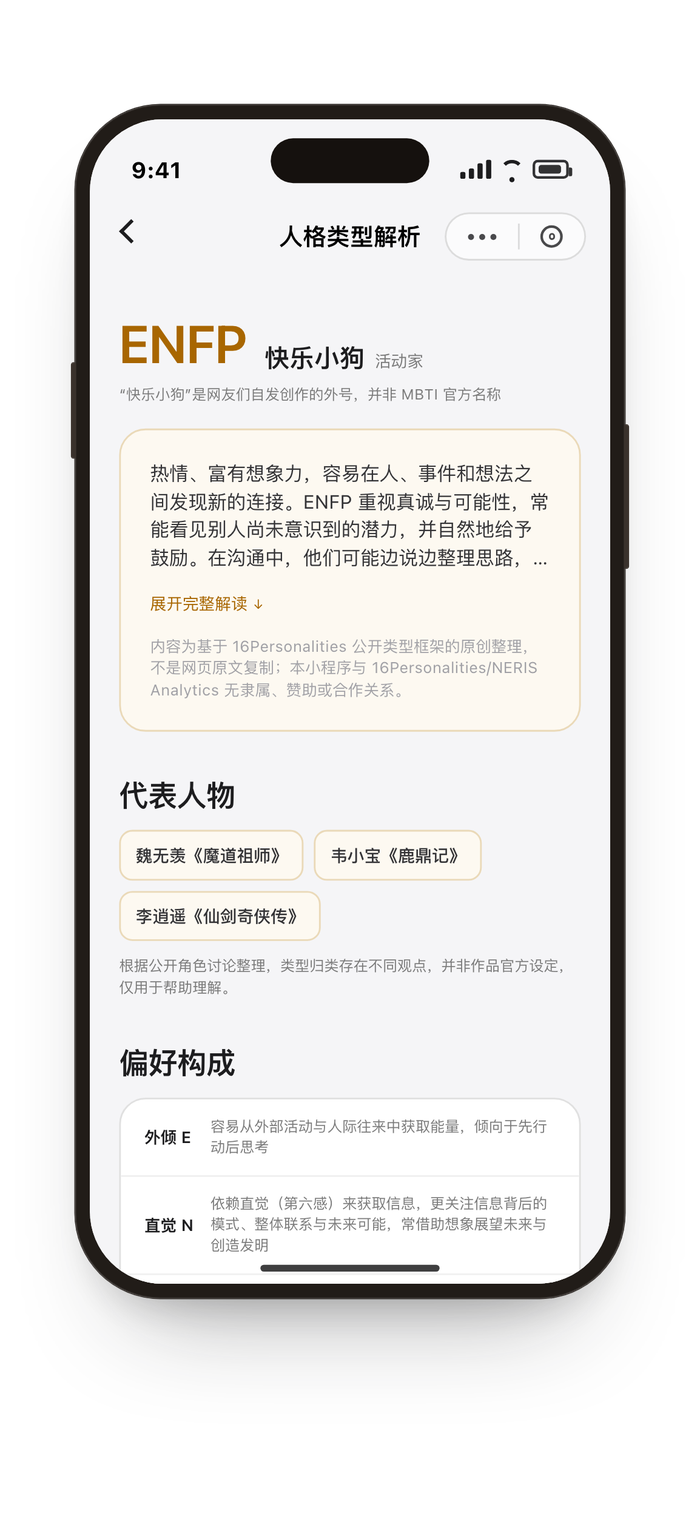
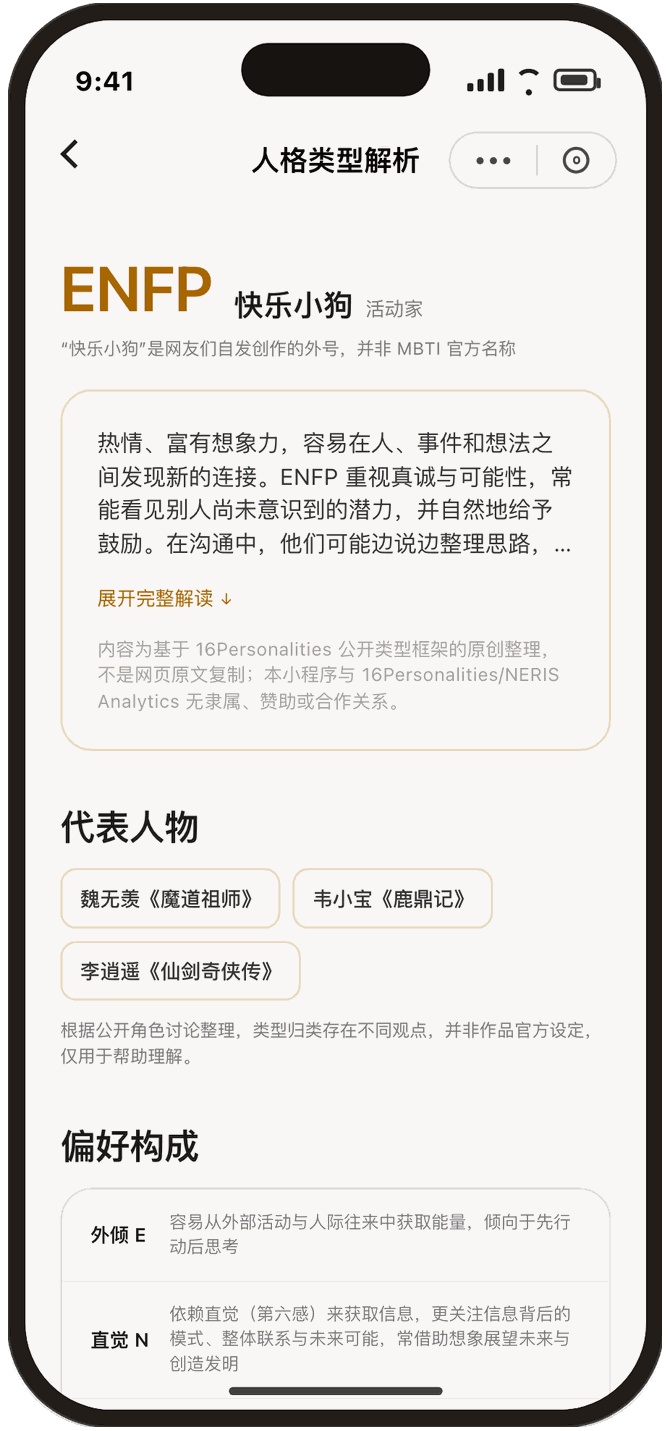
feat: 更新站点头像、成品图标注并清理截图投影
- 导航头像替换为照片，沿用 22px 圆角尺寸
- 两张小程序截图卡左上角增加「成品图」说明
- 四张手机截图去除烘焙投影并重新裁切压缩，同步更新展示比例
- 让我捋捋的两张截图位置对调

Changed region(s): [[0.0, 0.0, 1.0, 1.0], [0.1194, 0.9224, 0.209, 0.9532]]

diff --git a/index.html b/index.html
@@ -38,7 +38,7 @@ a{color:inherit;text-decoration:none;}
 .nav.scrolled{background:color-mix(in srgb,var(--bg) 80%,transparent);backdrop-filter:blur(14px);-webkit-backdrop-filter:blur(14px);border-bottom-color:var(--line);}
 .nav-inner{max-width:1080px;margin:0 auto;padding:16px 28px;display:flex;align-items:center;gap:20px;}
 .brand{font-weight:600;letter-spacing:.04em;display:flex;align-items:center;gap:9px;}
-.brand .dot{width:22px;height:22px;border-radius:7px;background:var(--grad);display:inline-block;}
+.brand .avatar{width:22px;height:22px;border-radius:7px;object-fit:cover;display:block;}
 .links{display:flex;gap:24px;margin-left:auto;align-items:center;}
 .links a{font-size:13.5px;color:var(--body);transition:color .2s;}
 .links a:hover{color:var(--ink);}
@@ -91,8 +91,9 @@ h1 .grad{background:var(--grad);-webkit-background-clip:text;background-clip:tex
 .mini{display:flex;flex-direction:column;gap:14px;}
 .mini .card{flex:1;}
 .phones-card{background:var(--surface);border:1px solid var(--line);border-radius:20px;box-shadow:var(--shadow);padding:16px;}
+.phones-cap{font-size:10.5px;letter-spacing:.16em;color:var(--muted);margin:0 0 10px;}
 .phones{display:grid;grid-template-columns:repeat(2,1fr);gap:10px;}
-.phone-btn{display:block;width:100%;aspect-ratio:700/1529;padding:0;border:0;background:none;font:inherit;line-height:0;cursor:zoom-in;transition:transform .3s cubic-bezier(.2,.7,.2,1);}
+.phone-btn{display:block;width:100%;aspect-ratio:670/1431;padding:0;border:0;background:none;font:inherit;line-height:0;cursor:zoom-in;transition:transform .3s cubic-bezier(.2,.7,.2,1);}
 .phone-btn img{display:block;width:100%;height:100%;object-fit:cover;}
 .phone-btn:hover{transform:translateY(-3px);}
 .phone-btn:focus-visible{outline:2px solid var(--accent);outline-offset:4px;}
@@ -176,7 +177,7 @@ html.js .rv.on{opacity:1;transform:none;}
 
 <nav class="nav" id="nav">
   <div class="nav-inner">
-    <a class="brand" href="#top"><span class="dot"></span>好开心</a>
+    <a class="brand" href="#top"><img class="avatar" src="assets/brand-avatar.jpg" alt="" width="128" height="128">好开心</a>
     <div class="links">
       <button class="theme-btn" id="themeToggle" aria-label="切换深浅色">◐</button>
       <a class="btn primary" href="#works">看作品</a>
@@ -221,12 +222,13 @@ html.js .rv.on{opacity:1;transform:none;}
         </div>
       </div>
       <div class="phones-card rv">
+        <div class="phones-cap">成品图</div>
         <div class="phones">
-          <button class="phone-btn" type="button" data-shot="assets/lvlv-phone-mbti.png" data-title="让我捋捋 · ENFP 人格详情" data-alt="让我捋捋 ENFP 人格类型详情页：快乐小狗、活动家、核心画像、代表人物与偏好构成" aria-haspopup="dialog" aria-controls="introDialog" aria-label="放大查看让我捋捋 ENFP 人格详情">
-            <img src="assets/lvlv-phone-mbti.png" alt="让我捋捋 ENFP 人格类型详情页：快乐小狗、活动家、核心画像、代表人物与偏好构成" loading="lazy" width="700" height="1529">
-          </button>
           <button class="phone-btn" type="button" data-shot="assets/lvlv-phone-result-upright.png" data-title="让我捋捋 · 结果页" data-alt="让我捋捋结果页：原话、第一反应、三种可能解释和一句可以这样问的求证" aria-haspopup="dialog" aria-controls="introDialog" aria-label="放大查看让我捋捋结果页">
-            <img src="assets/lvlv-phone-result-upright.png" alt="让我捋捋结果页：原话、第一反应、三种可能解释和一句可以这样问的求证" loading="lazy" width="700" height="1529">
+            <img src="assets/lvlv-phone-result-upright.png" alt="让我捋捋结果页：原话、第一反应、三种可能解释和一句可以这样问的求证" loading="lazy" width="670" height="1431">
+          </button>
+          <button class="phone-btn" type="button" data-shot="assets/lvlv-phone-mbti.png" data-title="让我捋捋 · ENFP 人格详情" data-alt="让我捋捋 ENFP 人格类型详情页：快乐小狗、活动家、核心画像、代表人物与偏好构成" aria-haspopup="dialog" aria-controls="introDialog" aria-label="放大查看让我捋捋 ENFP 人格详情">
+            <img src="assets/lvlv-phone-mbti.png" alt="让我捋捋 ENFP 人格类型详情页：快乐小狗、活动家、核心画像、代表人物与偏好构成" loading="lazy" width="670" height="1431">
           </button>
         </div>
       </div>
@@ -247,12 +249,13 @@ html.js .rv.on{opacity:1;transform:none;}
         </div>
       </div>
       <div class="phones-card rv">
+        <div class="phones-cap">成品图</div>
         <div class="phones">
           <button class="phone-btn" type="button" data-shot="assets/duidui-phone-train-upright.png" data-title="怼怼上线 · 训练页" data-alt="怼怼上线训练页：抽到职场场景，对方说“你这个事情怎么还没弄完？大家都在等你。”，用户正在写下回应" aria-haspopup="dialog" aria-controls="introDialog" aria-label="放大查看怼怼上线训练页">
-            <img src="assets/duidui-phone-train-upright.png" alt="怼怼上线训练页：抽到职场场景，对方说“你这个事情怎么还没弄完？大家都在等你。”，用户正在写下回应" loading="lazy" width="700" height="1529">
+            <img src="assets/duidui-phone-train-upright.png" alt="怼怼上线训练页：抽到职场场景，对方说“你这个事情怎么还没弄完？大家都在等你。”，用户正在写下回应" loading="lazy" width="670" height="1431">
           </button>
           <button class="phone-btn" type="button" data-shot="assets/duidui-phone-result-upright.png" data-title="怼怼上线 · 结果页" data-alt="怼怼上线结果页：本局完成 2/2 轮，判定为边界表达、守住边界，并展示逐轮回看" aria-haspopup="dialog" aria-controls="introDialog" aria-label="放大查看怼怼上线结果页">
-            <img src="assets/duidui-phone-result-upright.png" alt="怼怼上线结果页：本局完成 2/2 轮，判定为边界表达、守住边界，并展示逐轮回看" loading="lazy" width="700" height="1529">
+            <img src="assets/duidui-phone-result-upright.png" alt="怼怼上线结果页：本局完成 2/2 轮，判定为边界表达、守住边界，并展示逐轮回看" loading="lazy" width="670" height="1431">
           </button>
         </div>
       </div>
@@ -297,7 +300,7 @@ html.js .rv.on{opacity:1;transform:none;}
       <span class="idx">AGENT B · 公众号文章 + 微信贴图</span>
       <h3>微信草稿官</h3>
       <span class="role">一路填到后台，然后停手</span>
-      <p>两条线：公众号文章和微信贴图。文章素材从 Obsidian 的「微信/」目录来，贴图记录走飞书多维表格，用 Playwright 操作微信后台填内容，配图统一走 image_gen。每条都有状态：待创作 → 待重试 → 待审核 → 待发布 → 已完成。10 月基本每天都有产出。</p>
+      <p>两条线：公众号文章和微信贴图。文章素材从 Obsidian 的「微信/」目录来，贴图记录走飞书多维表格，用 Playwright 操作微信后台填内容，配图统一走 image_gen。每条都有状态：待创作 → 待重试 → 待审核 → 待发布 → 已完成。</p>
       <div class="lbl">流程 <em>Flow</em></div>
       <div class="flow">
         <span class="s"><b>01</b><span>笔记库 / 表格取素材</span></span><span class="ar">→</span>
@@ -365,7 +368,7 @@ html.js .rv.on{opacity:1;transform:none;}
 <footer>
   <div class="foot-inner">
     <span>好开心 · 自己做的小东西</span>
-    <span>微信内扫码可用</span>
+    <span></span>
   </div>
 </footer>
 
